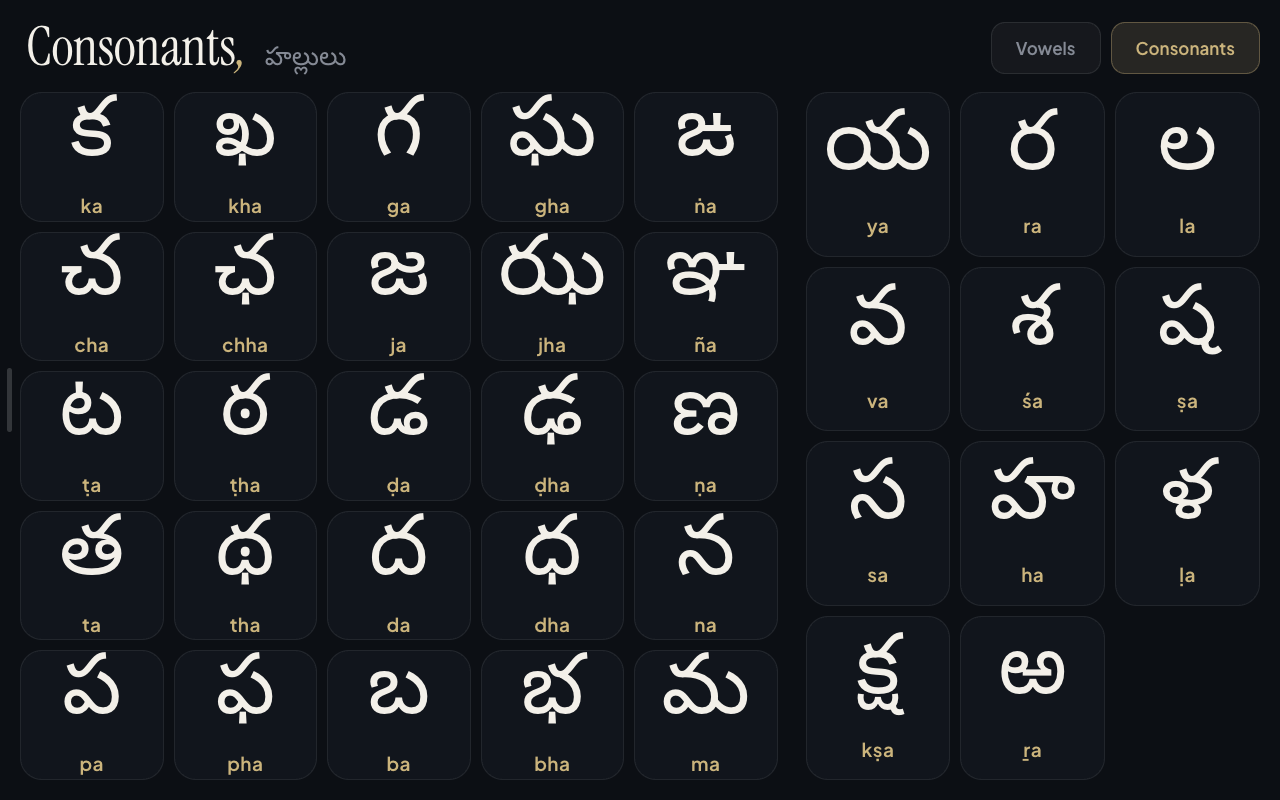
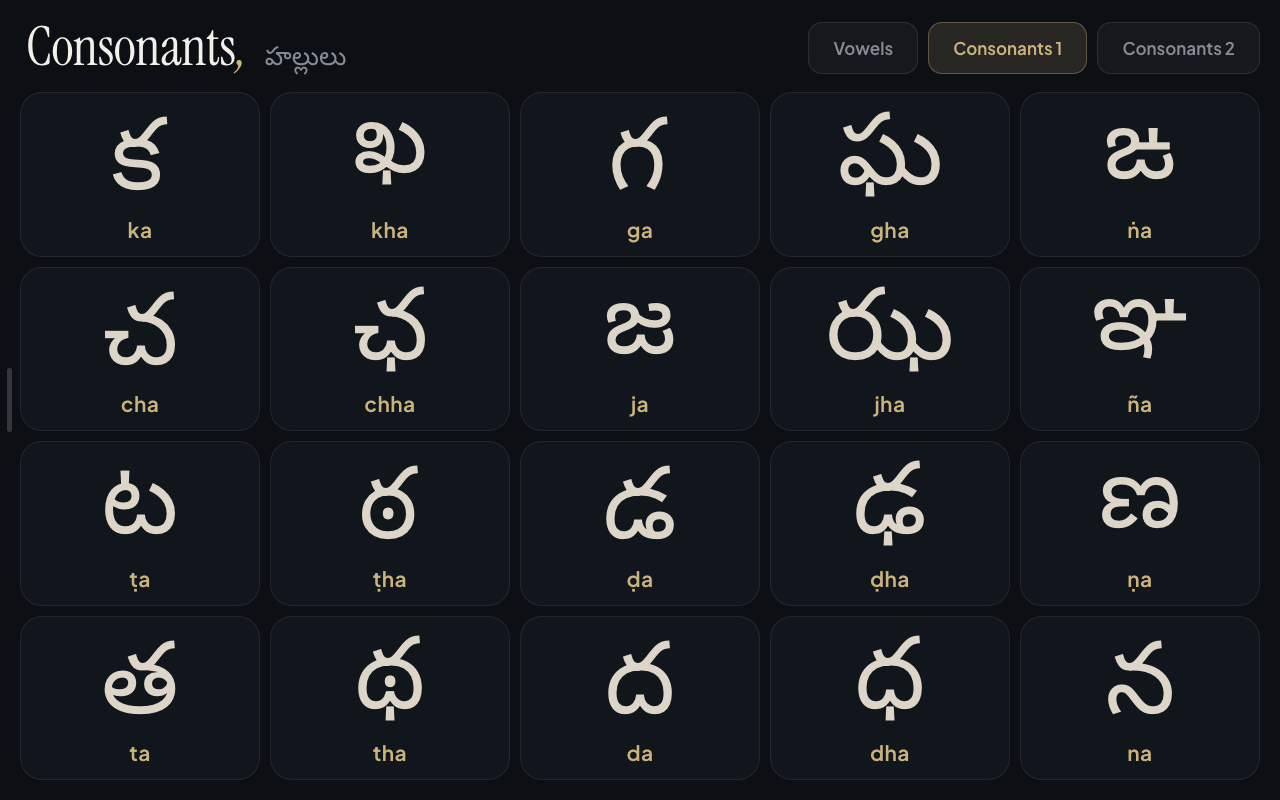
Centre each Telugu letter and split the consonants over two pages
Each letter is moved so its ink is centred in its box (measured from the
font once it loads), instead of sitting on a shared baseline. The
consonants move to two pages of four rows (the first four vargas; the
fifth and the rest) with bigger letters, and the letters take a warmer,
dimmer cream that sits better with the rest of the frame.

diff --git a/dashboard/src/screens/telugu.js b/dashboard/src/screens/telugu.js
@@ -1,5 +1,5 @@
 // Telugu screen: the vowels and consonants as a chart to look up at while writing them on paper.
-// Two pages, vowels and consonants; the tabs or a swipe switch between them.
+// Three pages, the vowels and the consonants over two; the tabs or a swipe move between them.
 //
 // Writing means not touching the frame, so the screen stays up (no going Home, no night clock)
 // for content.js `telugu.stayMinutes` after the last touch on it. While it's up it steps a few
@@ -7,52 +7,66 @@
 import { telugu as cfg } from '../content.js';
 import { DEMO } from '../demo.js';
 import { applyShift } from '../shift.js';
-import { VOWEL_ROWS, VARGAS, OTHER_ROWS } from '../telugu-letters.js';
+import { VOWEL_ROWS, CONSONANT_PAGES } from '../telugu-letters.js';
 
 const SWIPE_PX = 80;
+const FONT = 'Noto Sans Telugu';
 
-const cell = (l) => '<div class="te-cell"><span class="te-g" lang="te">' + l[0] + '</span><span class="te-r">' + l[1] + '</span></div>';
-const rows = (list, cls) => list.map((r) => '<div class="' + cls + '">' + r.map(cell).join('') + '</div>').join('');
+const cell = (l) => '<div class="te-cell"><span class="te-box"><span class="te-g" lang="te">' + l[0] +
+  '</span></span><span class="te-r">' + l[1] + '</span></div>';
+const rows = (list) => list.map((r) => '<div class="te-row">' + r.map(cell).join('') + '</div>').join('');
 
-const PAGES = {
-  vowels: { title: 'Vowels', te: 'అచ్చులు', body: '<div class="te-vowels">' + rows(VOWEL_ROWS, 'te-row') + '</div>' },
-  consonants: {
-    title: 'Consonants',
-    te: 'హల్లులు',
-    body: '<div class="te-cons"><div class="te-vargas">' + rows(VARGAS, 'te-row') + '</div>' +
-      '<div class="te-others">' + rows(OTHER_ROWS, 'te-row') + '</div></div>',
-  },
-};
+const PAGES = [
+  { tab: 'Vowels', title: 'Vowels', te: 'అచ్చులు', cls: 'te-vowels', rows: VOWEL_ROWS },
+  { tab: 'Consonants 1', title: 'Consonants', te: 'హల్లులు', cls: 'te-cons', rows: CONSONANT_PAGES[0] },
+  { tab: 'Consonants 2', title: 'Consonants', te: 'హల్లులు', cls: 'te-cons', rows: CONSONANT_PAGES[1] },
+];
+
+// Letters sit very differently in their em box (a mark above, a tail below, a wide or narrow
+// body), so each one is moved until its ink is centred: the same space above and below, left and
+// right. Measured once, in em, from the font itself.
+function centreInk(el) {
+  const ctx = document.createElement('canvas').getContext('2d');
+  ctx.font = '100px "' + FONT + '"';
+  Array.prototype.forEach.call(el.querySelectorAll('.te-g'), (g) => {
+    const m = ctx.measureText(g.textContent);
+    const asc = m.fontBoundingBoxAscent, desc = m.fontBoundingBoxDescent;
+    if (!asc || !m.width) return; // no metrics in this browser: leave it on the baseline
+    const baseline = (100 - asc - desc) / 2 + asc; // in a line-height: 1 box
+    const dy = 50 - (baseline + (m.actualBoundingBoxDescent - m.actualBoundingBoxAscent) / 2);
+    const dx = m.width / 2 - (m.actualBoundingBoxRight - m.actualBoundingBoxLeft) / 2;
+    g.style.transform = 'translate(' + (dx / 100).toFixed(3) + 'em,' + (dy / 100).toFixed(3) + 'em)';
+  });
+}
 
 export function mountTelugu(el) {
-  let page = DEMO && /[?&]consonants(&|$)/.test(location.search) ? 'consonants' : 'vowels';
+  let page = DEMO ? Math.max(0, Number(new URLSearchParams(location.search).get('page')) || 0) % PAGES.length : 0;
   let shown = false, touchedAt = 0, from = null;
 
-  el.innerHTML = Object.keys(PAGES).map((name) => {
-    const p = PAGES[name];
-    return '<section class="te-page" data-page="' + name + '">' +
+  el.innerHTML = PAGES.map((p, i) =>
+    '<section class="te-page" data-page="' + i + '">' +
       '<header class="screen-head"><h1 class="serif">' + p.title + '<i>,</i></h1><span class="te-word" lang="te">' + p.te + '</span>' +
-      '<span class="te-tabs">' + Object.keys(PAGES).map((n) =>
-        '<button class="te-tab' + (n === name ? ' is-on' : '') + '" data-go="' + n + '">' + PAGES[n].title + '</button>').join('') +
-      '</span></header>' + p.body + '</section>';
-  }).join('');
+      '<span class="te-tabs">' + PAGES.map((q, j) =>
+        '<button class="te-tab' + (j === i ? ' is-on' : '') + '" data-go="' + j + '">' + q.tab + '</button>').join('') +
+      '</span></header><div class="te-grid ' + p.cls + '">' + rows(p.rows) + '</div></section>').join('');
 
-  function turn(name) {
-    page = name;
-    Array.prototype.forEach.call(el.children, (s) => { s.hidden = s.getAttribute('data-page') !== page; });
+  function turn(i) {
+    page = Math.max(0, Math.min(PAGES.length - 1, i));
+    Array.prototype.forEach.call(el.children, (s) => { s.hidden = Number(s.getAttribute('data-page')) !== page; });
   }
   turn(page);
+  try { document.fonts.load('100px "' + FONT + '"', 'అ').then(() => centreInk(el), () => {}); } catch (e) { /* no FontFace API */ }
 
   el.addEventListener('pointerdown', (e) => { touchedAt = Date.now(); from = { x: e.clientX, y: e.clientY }; });
   el.addEventListener('pointerup', (e) => {
     if (!from) return;
     const dx = e.clientX - from.x, dy = e.clientY - from.y;
     from = null;
-    if (Math.abs(dx) > SWIPE_PX && Math.abs(dx) > 1.5 * Math.abs(dy)) turn(dx < 0 ? 'consonants' : 'vowels');
+    if (Math.abs(dx) > SWIPE_PX && Math.abs(dx) > 1.5 * Math.abs(dy)) turn(page + (dx < 0 ? 1 : -1));
   });
   el.addEventListener('click', (e) => {
     const b = e.target.closest('[data-go]');
-    if (b) turn(b.getAttribute('data-go'));
+    if (b) turn(Number(b.getAttribute('data-go')));
   });
 
   return {

diff --git a/dashboard/src/style.css b/dashboard/src/style.css
@@ -32,6 +32,7 @@
   --serif: 'Instrument Serif', Georgia, serif;
   --sans: 'Plus Jakarta Sans Variable', 'Plus Jakarta Sans', Roboto, sans-serif;
   --te: 'Noto Sans Telugu', var(--sans);
+  --te-ink: #ddd6c8; /* the Telugu letters: --ink a step warmer and dimmer, easier on the eye in bulk */
 
   /* shape + space */
   --r: 30px;
@@ -702,29 +703,25 @@ button { font: inherit; color: inherit; background: none; border: 0; cursor: poi
   color: var(--mute);
 }
 .te-tab.is-on { border-color: rgba(203, 180, 124, 0.35); background: rgba(203, 180, 124, 0.14); color: var(--gold); }
-.te-vowels, .te-vargas, .te-others { display: flex; flex-direction: column; gap: 10px; min-width: 0; }
-.te-vowels { flex: 1; min-height: 0; }
-.te-cons { display: flex; gap: 28px; flex: 1; min-height: 0; }
-.te-vargas { flex: 5; }
-.te-others { flex: 3; }
+.te-grid { display: flex; flex-direction: column; gap: 10px; flex: 1; min-height: 0; }
 .te-row { display: flex; gap: 10px; flex: 1; min-height: 0; }
-.te-others .te-row { display: grid; grid-template-columns: repeat(3, 1fr); }
 .te-cell {
   display: flex;
   flex: 1;
   flex-direction: column;
-  align-items: center;
-  justify-content: center;
   min-width: 0;
   border-radius: 22px;
   border: 1px solid var(--tile-line);
   background: var(--tile);
 }
-.te-g { font-family: var(--te); font-size: 116px; line-height: 1; color: var(--ink); }
-.te-r { margin-top: 10px; font-size: 24px; font-weight: 650; letter-spacing: 0.02em; color: var(--gold); }
-.te-cons .te-g { font-size: 84px; }
-.te-cons .te-r { margin-top: 12px; font-size: 19px; }
-.te-others .te-r { margin-top: 18px; }
+/* the space the letter is centred in (screens/telugu.js moves each one so its ink is centred) */
+.te-box { display: flex; flex: 1; align-items: center; justify-content: center; min-height: 0; }
+.te-g { font-family: var(--te); font-size: 116px; line-height: 1; color: var(--te-ink); }
+.te-r { flex: none; height: 46px; font-size: 24px; font-weight: 650; letter-spacing: 0.02em; text-align: center; color: var(--gold); }
+/* the consonants keep five columns on both pages, so every cell is the same size */
+.te-cons .te-cell { flex: none; width: calc((100% - 40px) / 5); }
+.te-cons .te-g { font-size: 100px; }
+.te-cons .te-r { height: 40px; font-size: 21px; }
 .bar-te { font-family: var(--te); font-size: 30px; line-height: 30px; height: 30px; }
 
 /* ------------------------------------------------------------------ side bar */

diff --git a/dashboard/test/telugu-letters.test.js b/dashboard/test/telugu-letters.test.js
@@ -1,6 +1,6 @@
 import { test } from 'node:test';
 import assert from 'node:assert/strict';
-import { VOWEL_ROWS, VARGAS, OTHER_ROWS } from '../src/telugu-letters.js';
+import { VOWEL_ROWS, VARGAS, OTHER_ROWS, CONSONANT_PAGES } from '../src/telugu-letters.js';
 
 const vowels = VOWEL_ROWS.flat(), consonants = VARGAS.flat().concat(OTHER_ROWS.flat());
 
@@ -22,4 +22,13 @@ test('five vargas of five, ending in their nasals', () => {
   assert.equal(VARGAS.length, 5);
   for (const row of VARGAS) assert.equal(row.length, 5);
   assert.deepEqual(VARGAS.map((r) => r[4][0]), ['ఙ', 'ఞ', 'ణ', 'న', 'మ']);
+});
+
+test('the consonant pages hold every consonant once, four rows of at most five each', () => {
+  const paged = CONSONANT_PAGES.flat(2).map((l) => l[0]);
+  assert.deepEqual(paged, consonants.map((l) => l[0]));
+  for (const page of CONSONANT_PAGES) {
+    assert.equal(page.length, 4);
+    for (const row of page) assert.ok(row.length <= 5);
+  }
 });

diff --git a/dashboard/src/telugu-letters.js b/dashboard/src/telugu-letters.js
@@ -19,10 +19,12 @@ export const VARGAS = [
   [['ప', 'pa'], ['ఫ', 'pha'], ['బ', 'ba'], ['భ', 'bha'], ['మ', 'ma']],
 ];
 
-// The other eleven, three to a row.
+// The other eleven: the semivowels, the sibilants and h, then the last three.
 export const OTHER_ROWS = [
-  [['య', 'ya'], ['ర', 'ra'], ['ల', 'la']],
-  [['వ', 'va'], ['శ', 'śa'], ['ష', 'ṣa']],
-  [['స', 'sa'], ['హ', 'ha'], ['ళ', 'ḷa']],
-  [['క్ష', 'kṣa'], ['ఱ', 'ṟa']],
+  [['య', 'ya'], ['ర', 'ra'], ['ల', 'la'], ['వ', 'va']],
+  [['శ', 'śa'], ['ష', 'ṣa'], ['స', 'sa'], ['హ', 'ha']],
+  [['ళ', 'ḷa'], ['క్ష', 'kṣa'], ['ఱ', 'ṟa']],
 ];
+
+// The consonants over two pages of four rows: the first four vargas; then the fifth and the rest.
+export const CONSONANT_PAGES = [VARGAS.slice(0, 4), VARGAS.slice(4).concat(OTHER_ROWS)];

diff --git a/docs/decisions.md b/docs/decisions.md
@@ -14,4 +14,4 @@ full. Entries marked *(backfilled)* were recorded after the fact, dated from git
 - 2026-10-16 — The frame may call owner-approved services directly (WMATA, Google Calendar by secret address), since the RK3326's trust store is updated; supersedes "never calls third-party APIs". Extended 2026-10-19 to weather.gov, NASA, the Art Institute of Chicago, the Cleveland Museum of Art and Wikimedia Commons, all without keys. See [frame.md](frame.md#network) and AGENTS.md.
 - 2026-10-19 — Public pictures are measured on the frame (sharpness at the size shown, darkness) in a Worker before they're shown, and only dark ones are kept: the main thread took 130–770 ms per picture. See [design.md](design.md).
 - 2026-10-19 — The Pomodoro timer is stored as timestamps, not a countdown, so it survives reloads and power cuts; it shows no countdown until network time arrives, and drops a session that ended more than 10 minutes before the frame came back. See `dashboard/src/pomodoro-data.js`.
-- 2026-10-21 — The Telugu screen bundles Noto Sans Telugu (the Telugu subset, about 36 KB) instead of relying on the frame's copy, so the Mac preview and the frame draw the same letters; the sans, not the serif, because its even strokes are closest to a pen line. Letters share a baseline in each row, as on ruled paper, rather than each being centred. See `dashboard/src/screens/telugu.js`.
+- 2026-10-21 — The Telugu screen bundles Noto Sans Telugu (the Telugu subset, about 36 KB) instead of relying on the frame's copy, so the Mac preview and the frame draw the same letters; the sans, not the serif, because its even strokes are closest to a pen line. Each letter is moved so its ink is centred in its box (measured from the font when the page loads), at the owner's request after trying a shared baseline: letters with a mark above or a tail below looked off-centre. See `dashboard/src/screens/telugu.js`.

diff --git a/README.md b/README.md
@@ -14,7 +14,7 @@ train board or the forecast.
 
 ![Pomodoro screen: a 45-minute timer with categories, today's count, the streak, the last 7 days, 12 weeks and time by category](docs/images/pomodoro.png)
 
-![Telugu screen: the consonants as the five vargas and the other eleven, each with its romanization](docs/images/telugu.png)
+![Telugu screen: the first four vargas of the consonants, each letter with its romanization](docs/images/telugu.png)
 
 <sub>Screenshots from the frame in demo mode (`?demo`): made-up events and trains, and a
 public-domain photo of the Tidal Basin by the National Park Service.</sub>
@@ -54,10 +54,10 @@ keep running for weeks with nobody touching it.
   with a chime and a gold pulse. Stopping early takes two taps and is logged as stopped, not as a
   full session. The log is kept on the frame, with a backup file that `adb pull` can copy off.
 - **Telugu.** The 16 vowels and 36 consonants as a chart to look up at while writing them on
-  paper, each with its romanization (kathalu's) under it. Vowels on one page in their families,
-  consonants on the other as the five vargas plus the rest; the tabs or a swipe switch pages. It
-  stays up for 45 minutes after the last touch, so writing doesn't send it Home, and moves 4 px
-  once every half hour against burn-in.
+  paper, each centred in its box with its romanization (kathalu's) under it. Three pages: the
+  vowels in their families, then the consonants over two (four vargas; the fifth and the rest);
+  the tabs or a swipe move between them. It stays up for 45 minutes after the last touch, so
+  writing doesn't send it Home, and moves 4 px once every half hour against burn-in.
 - **Taps on Home.** A day on the month, or *Next up*, opens that day's events (‹ › step through
   days). The weather opens Weather, the Metro banner opens Transit, the photo moves on, and the
   time brings the night clock now.

diff --git a/CHANGELOG.md b/CHANGELOG.md
@@ -38,7 +38,8 @@ and versions follow [Semantic Versioning](https://semver.org).
   by category. It survives reloads and power cuts, holds off night and the return to Home while it
   runs, and keeps a backup of its log in a file (kiosk 0.6, `GlanceFiles`).
 - Telugu screen for writing practice: the 16 vowels and 36 consonants with their romanizations,
-  on two pages (tabs or a swipe), in Noto Sans Telugu bundled with the page. It stays up for 45
+  each centred in its box, on three pages (tabs or a swipe), in Noto Sans Telugu bundled with the
+  page. It stays up for 45
   minutes after the last touch and steps 4 px every 30 minutes against burn-in.
 - Burn-in shifts for Home: the board steps through nine positions within 6 px of where it belongs,
   one every 10 minutes (`settings.shift` in `content.js`; `px: 0` turns it off).
